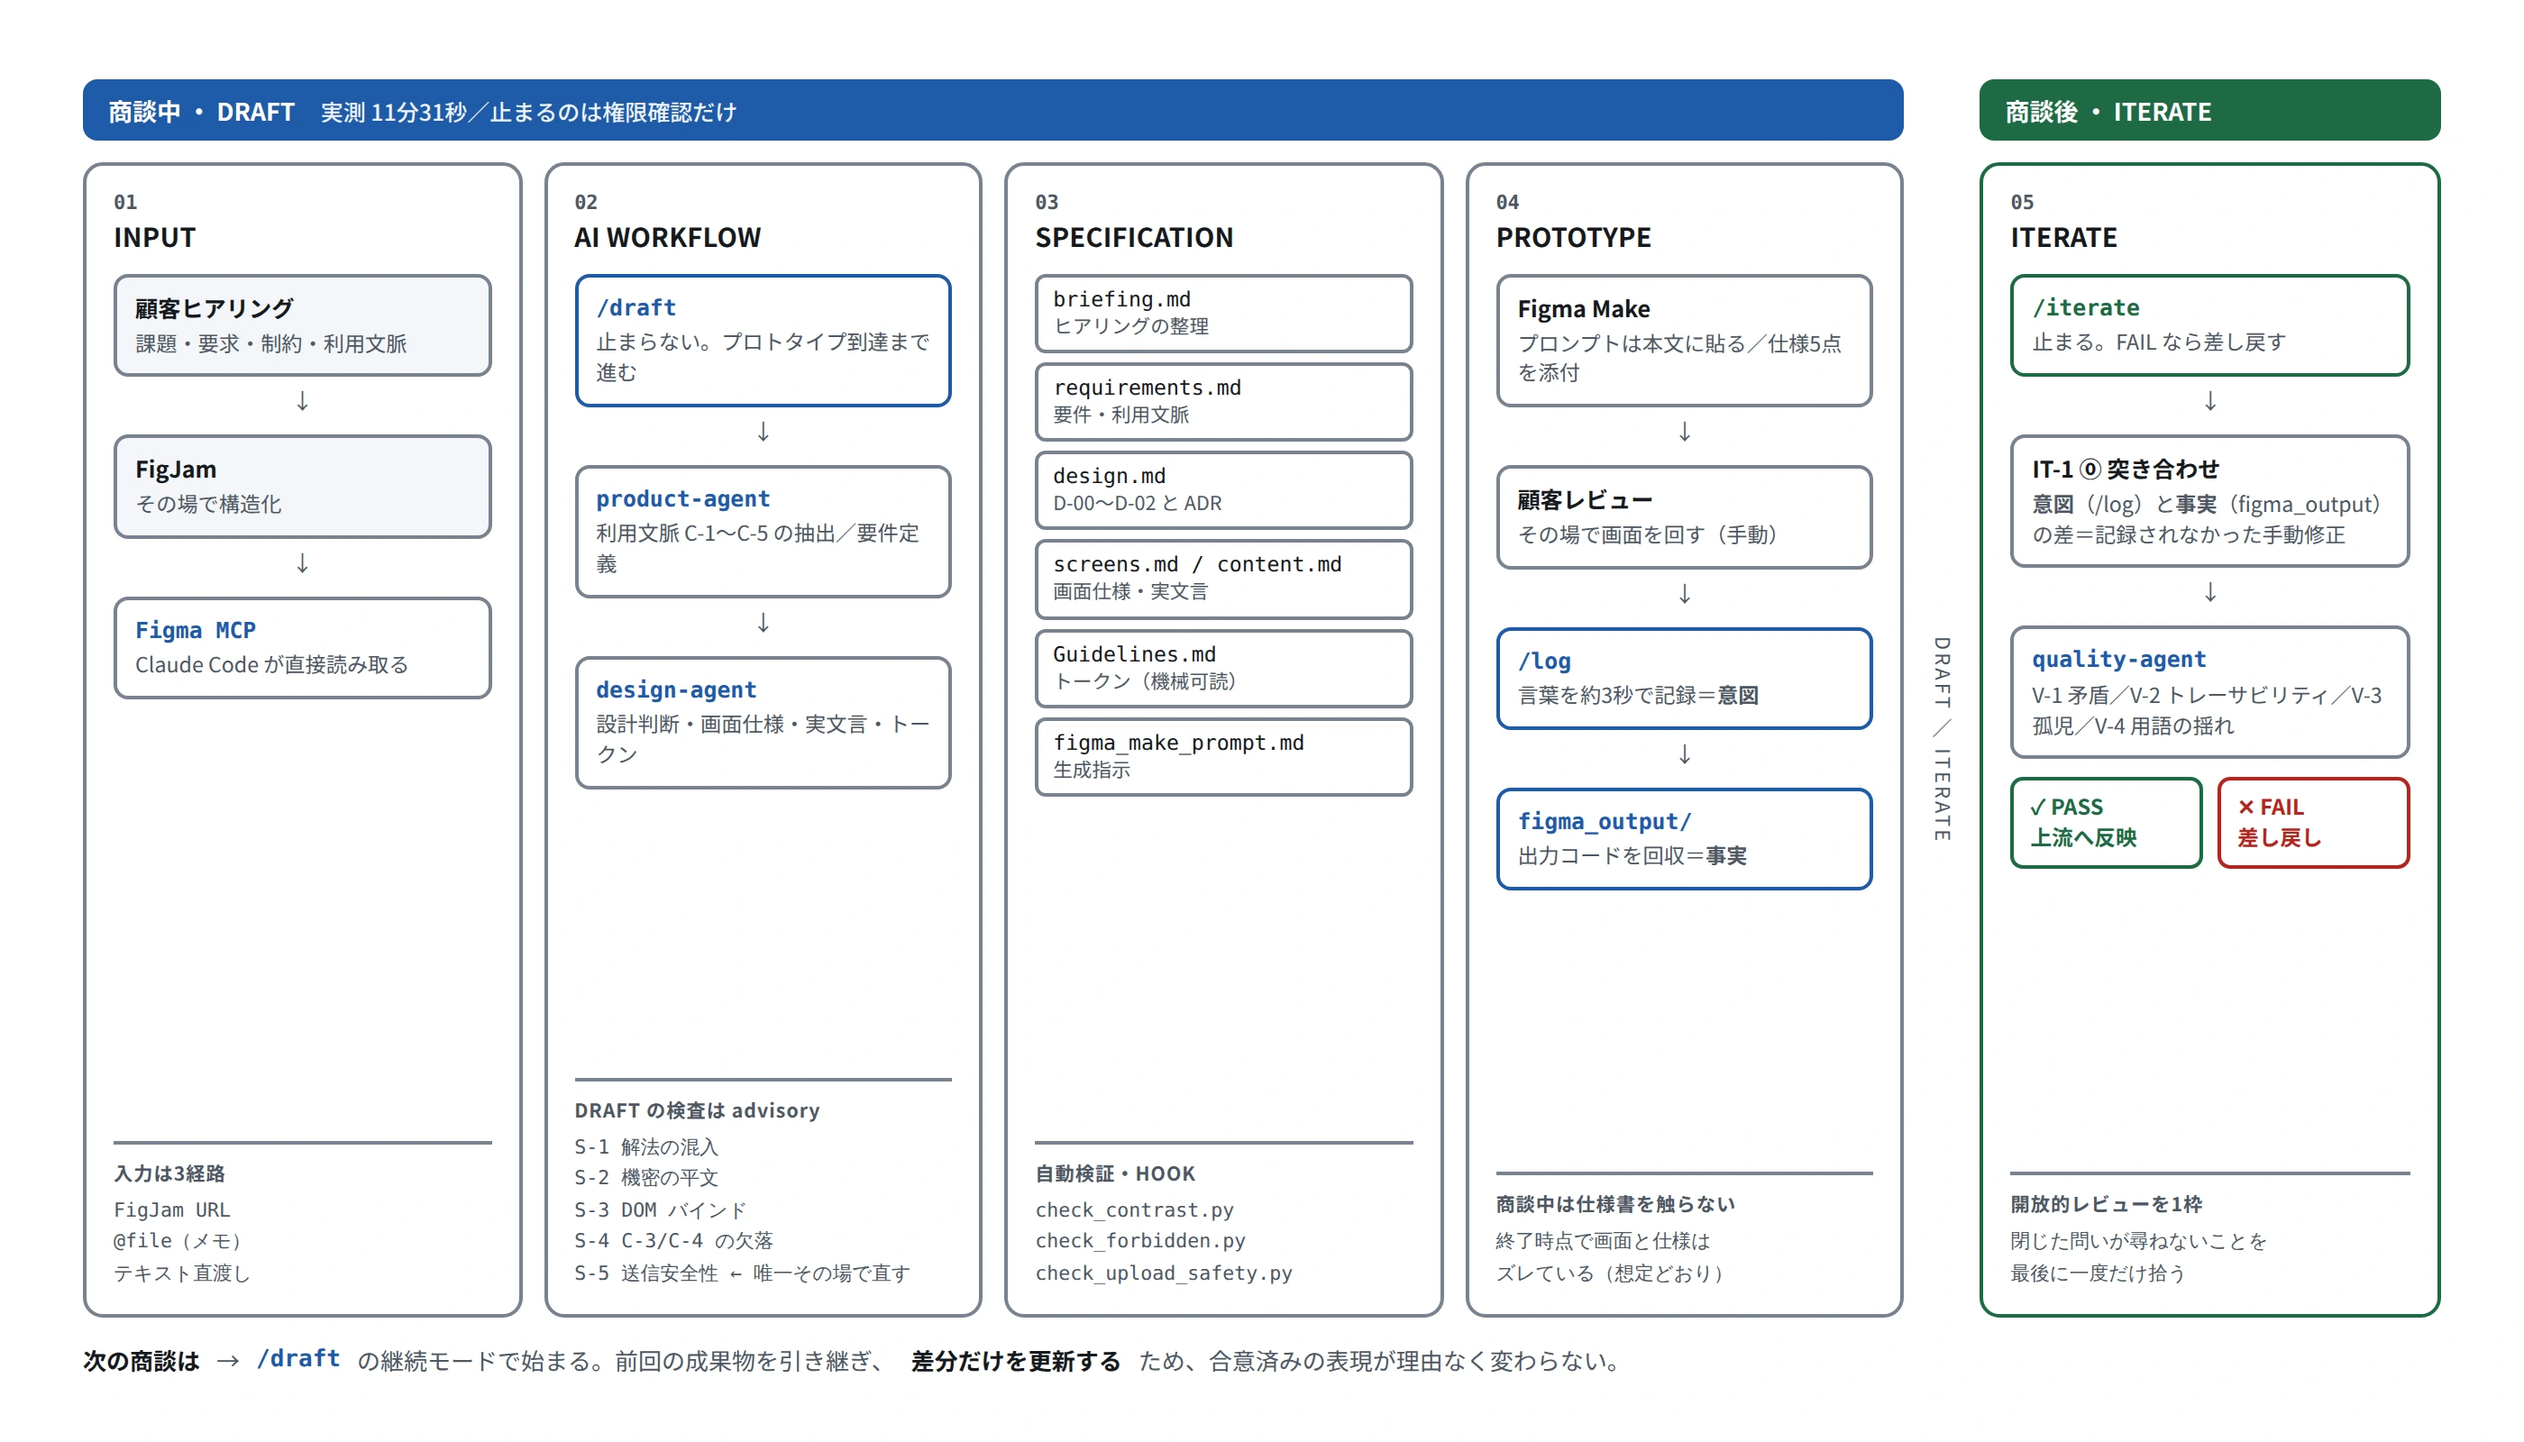
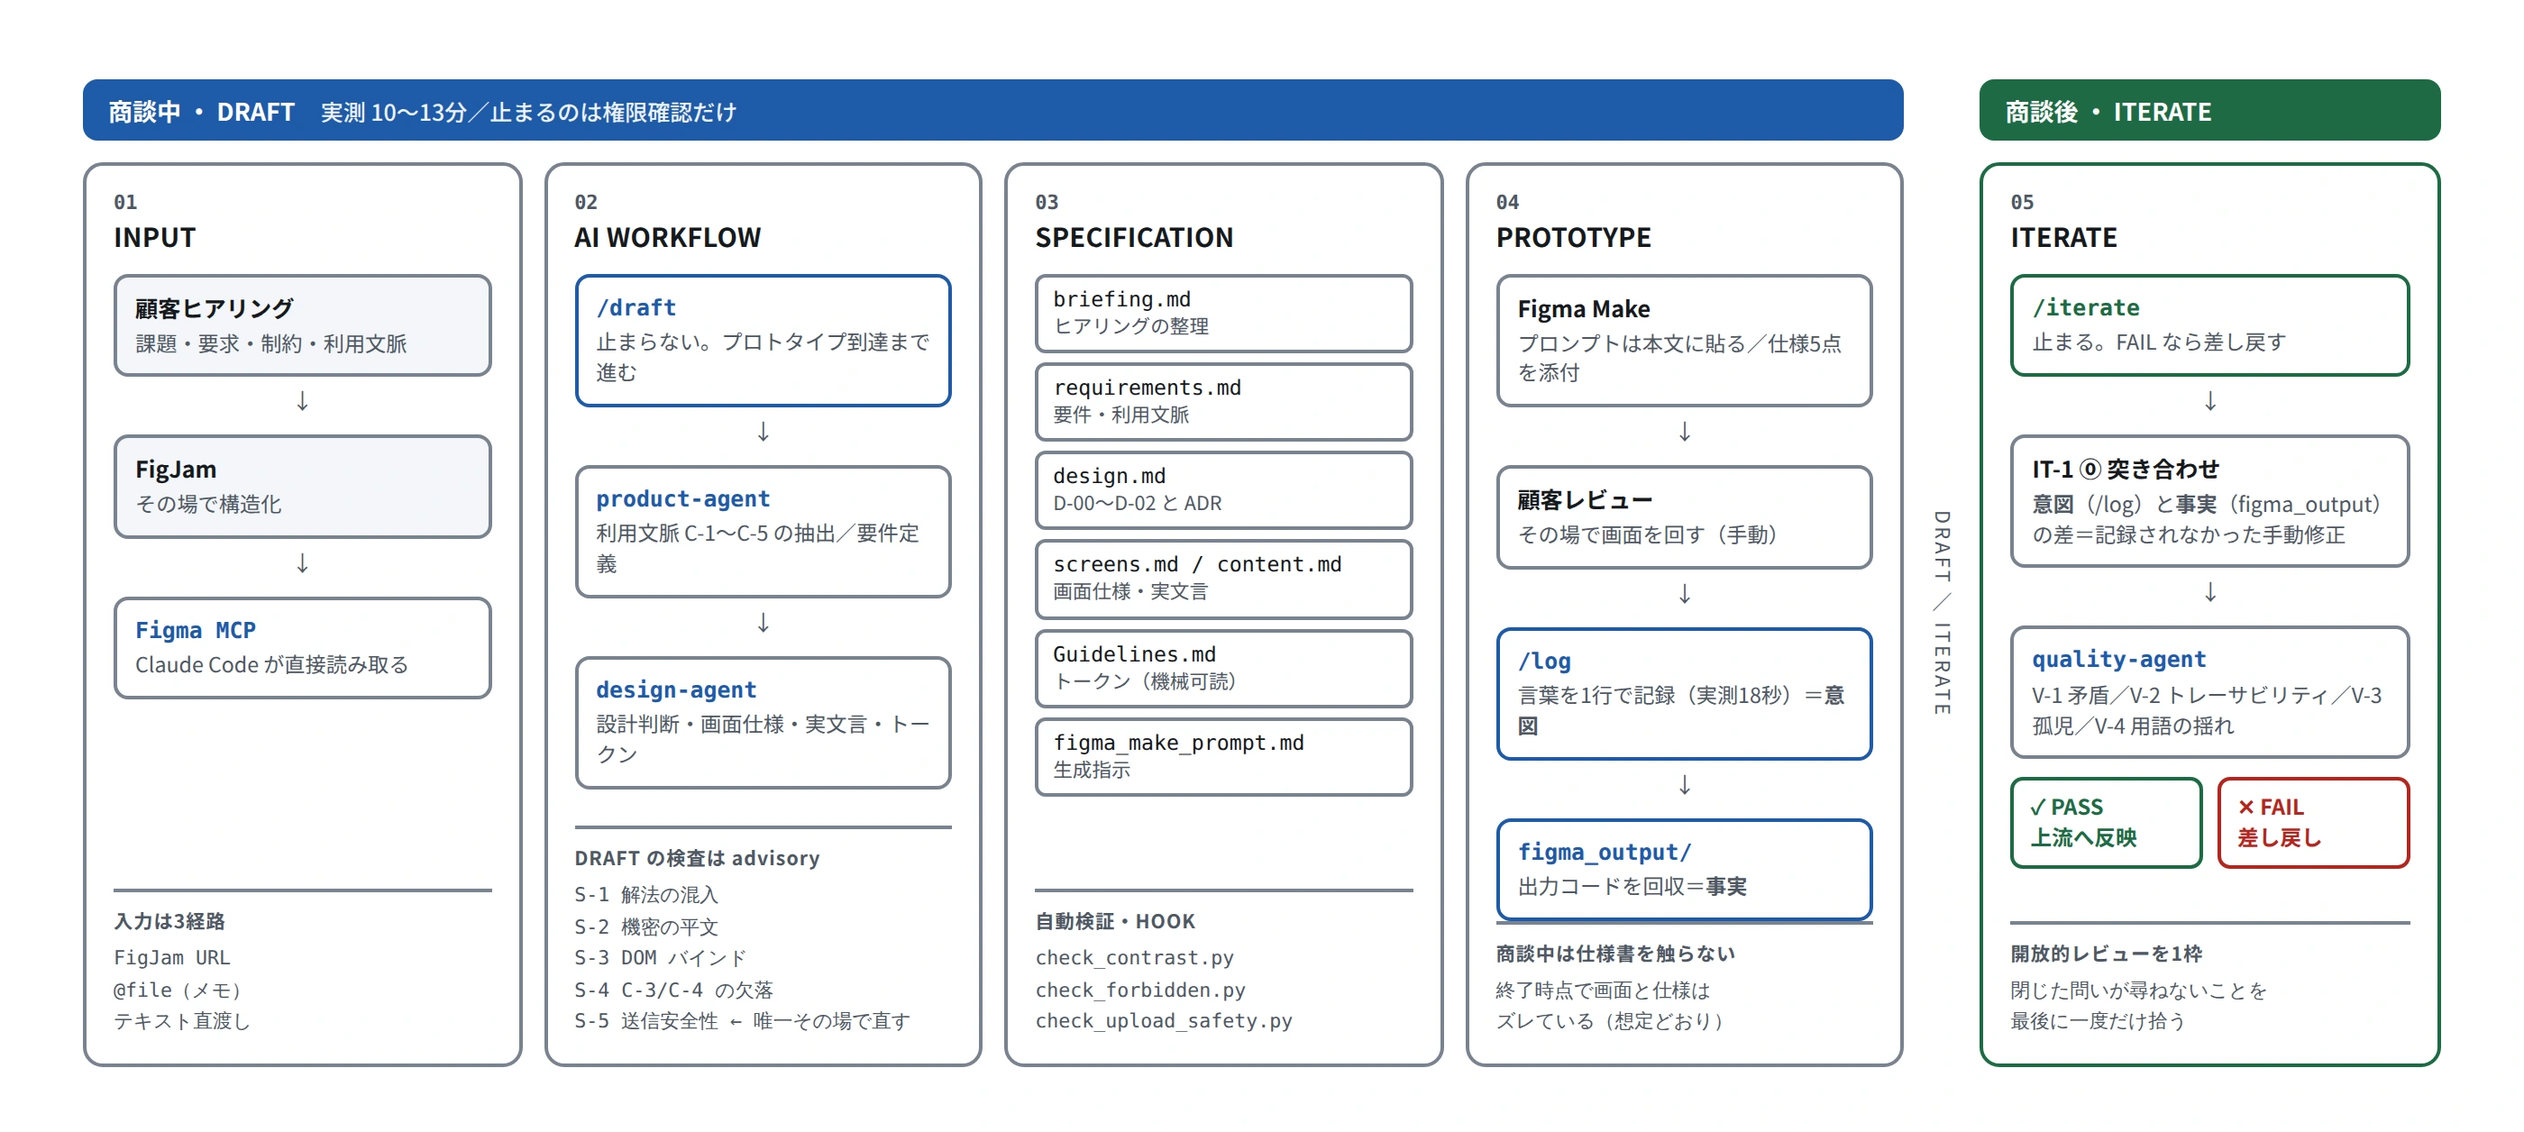
V1.77

diff --git a/data/works/spec-driven-prototyping.ts b/data/works/spec-driven-prototyping.ts
@@ -10,7 +10,7 @@ export const specDrivenPrototyping: Work = {
   thumbnail: "/images/works/spec-driven-prototyping/thumbnail.webp",
   summary: {
     challenge:
-      "顧客との対話をもとにその場でプロトタイプを作るには、スピードだけでなく、要件や設計判断の根拠を残しながら品質を担保する必要がある。",
+      "顧客との対話をもとにその場でプロトタイプを作るには、スピードを維持しながら、要件や設計判断の根拠を残しながら品質を担保する必要がある。",
 
     solution: [
       "ヒアリングから画面生成までを一気通貫でつなぐAIワークフロー。仕様生成10〜13分、生成工程で必要な人手操作は約30秒。",
@@ -56,7 +56,7 @@ export const specDrivenPrototyping: Work = {
       label: "Overview",
       title: "プロジェクト概要",
       titleFont: "sans",
-      body: "仕様駆動開発（SDD）やAI-DLCの考え方を参考に、顧客ヒアリングからプロトタイプ制作までを一気通貫に支援するAI開発ワークフローを設計・構築しました。\n\n想定業務を題材に、AIで成果物を作ることではなく、「どの工程で、何を判断させ、どこで人間が確認するか」という開発プロセスそのものを設計しています。\n\nスピードだけでなく、要件・仕様・設計判断の根拠を残しながら、顧客との対話を通じて改善を繰り返せることを目指しました。",
+      body: "仕様駆動開発（SDD）やAI-DLCの考え方を参考に、顧客ヒアリングからプロトタイプ制作までを一気通貫に支援するAI開発ワークフローを設計・構築しました。\n\n想定業務を題材に、AIで成果物を作ることではなく、「どの工程で何を判断させ、どこで人間が確認するか」という開発プロセスそのものを設計しています。",
     },
 
     {
@@ -82,7 +82,7 @@ export const specDrivenPrototyping: Work = {
       caption:
         "ヒアリングから仕様化・プロトタイプ制作・レビューまでをつなぐワークフロー",
       width: 2800,
-      height: 1600,
+      height: 1256,
     },
 
     {
@@ -107,7 +107,7 @@ export const specDrivenPrototyping: Work = {
       alt: "3つのAIエージェントと再利用層・案件層の構成",
       caption: "エージェントや知識を再利用層に、案件ごとの成果物を案件層に分離",
       width: 2342,
-      height: 1400,
+      height: 1096,
     },
 
     {
@@ -124,7 +124,7 @@ export const specDrivenPrototyping: Work = {
       alt: "プロジェクト情報と判断基準から設計判断を導くAIエージェントの構造",
       caption: "要件・知識・制約をもとに設計を判断し、その根拠をADRとして残す",
       width: 2342,
-      height: 1400,
+      height: 1188,
     },
 
     {
@@ -141,7 +141,7 @@ export const specDrivenPrototyping: Work = {
       alt: "WCAGコントラスト比を自動検証するスクリプト",
       caption: "数値で判定できる品質基準は、AIの自己申告ではなく自動検証",
       width: 2342,
-      height: 1400,
+      height: 1072,
     },
 
     {
@@ -159,7 +159,7 @@ export const specDrivenPrototyping: Work = {
       caption:
         "ワークフロー改善時の計測：委譲を6回から2回へ統合し、所要時間を31%削減",
       width: 2342,
-      height: 1120,
+      height: 1062,
     },
 
     {
@@ -170,11 +170,11 @@ export const specDrivenPrototyping: Work = {
       body: "生成した画面仕様・実文言・デザイントークン・設計判断・非機能要件と専用プロンプトをFigma Makeへ渡し、プロトタイプを生成します。\n\n生成されたコードを仕様と照合し、空状態や条件分岐が仕様どおり実装されていること、禁止した実装パターンが混入していないことを確認しました。\n\nヒアリングで得た情報が、要件・仕様・設計判断を経て実際の画面まで一貫してつながることを確認しています。",
       links: [
         {
-          label: "ライトプロトタイプを見る",
+          label: "プロトタイプ(light)を見る",
           href: "https://appeal-slush-81841099.figma.site",
         },
         {
-          label: "ダークプロトタイプを見る",
+          label: "プロトタイプ(dark)を見る",
           href: "https://swear-brave-80703018.figma.site",
         },
         {
@@ -189,25 +189,27 @@ export const specDrivenPrototyping: Work = {
       src: "/images/works/spec-driven-prototyping/detail-06.webp",
       alt: "ワークフローから生成したプロトタイプ画面",
       caption:
-        "仕様・実文言・デザイントークンから生成した実際のプロトタイプ（ライト）",
+        "仕様・実文言・デザイントークンから生成した実際のプロトタイプ（light）",
       width: 3250,
       height: 2122,
     },
+
     {
       type: "image",
       src: "/images/works/spec-driven-prototyping/detail-07.webp",
       alt: "ワークフローから生成したプロトタイプ画面",
       caption:
-        "仕様・実文言・デザイントークンから生成した実際のプロトタイプ（ダーク）",
+        "仕様・実文言・デザイントークンから生成した実際のプロトタイプ（dark）",
       width: 3250,
       height: 2122,
     },
+
     {
       type: "text",
       label: "Reflection",
       title: "振り返り",
       titleFont: "sans",
-      body: "本プロジェクトを通して、生成AIを活用するうえでは、プロンプトだけでなく「どの工程で何を判断させ、どこで人間が確認するか」というプロセス設計が重要だと実感しました。\n\nまた、設計した仕組みを実際に動かして計測・検証することで、設計時には見えなかった問題を発見できました。自分で定めた規約を自分で読み違えていたこと、外部サービスへ渡すファイルに顧客の発言が転記されていたこと。どちらも計測と自動検査によって初めて表面化したものです。\n\n今回は確定した仕様と動くプロトタイプまでを対象とし、実装は意図的に含めていません。プロトタイプを作り直すのではなく、実装可能な単位へ分解した成果物を引き渡し、既存の開発プロセスへ接続できる設計としました。",
+      body: "本プロジェクトを通して、生成AIを活用するうえでは、プロンプトだけでなく「どの工程で何を判断させ、どこで人間が確認するか」というプロセス設計が重要だと実感しました。\n\nまた、設計した仕組みを実際に動かして計測・検証することで、設計時には見えなかった問題を発見し、ワークフローそのものを改善できました。\n\n今回は確定した仕様と動くプロトタイプまでを対象とし、実装は意図的に含めていません。プロトタイプを作り直すのではなく、実装可能な単位へ分解した成果物を引き渡し、既存の開発プロセスへ接続できる設計としました。",
     },
   ],
 };
